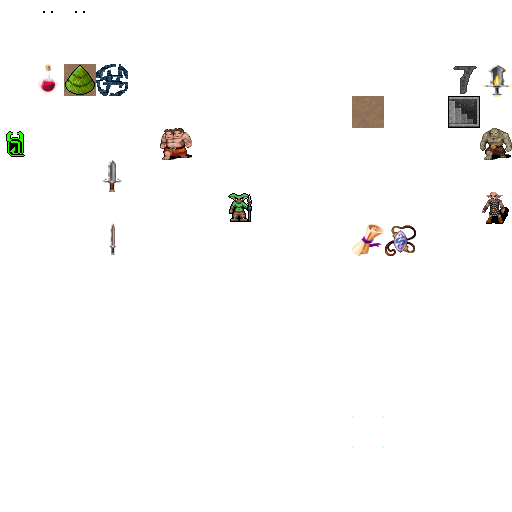
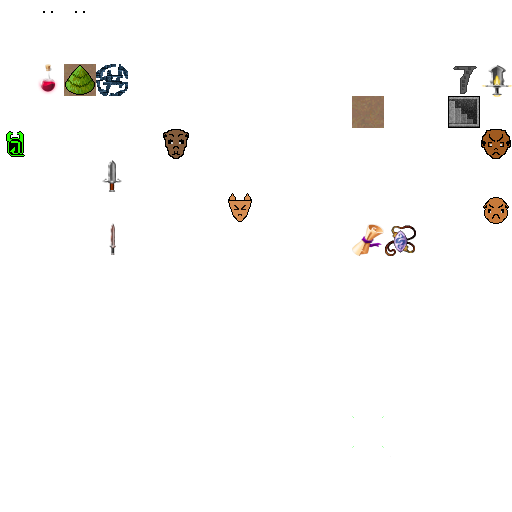
Refactored the code to deal with ECS, added new custom tileset in the resources

diff --git a/src/map.rs b/src/map.rs
@@ -43,39 +43,4 @@ impl Map {
             Some(map_index(point.x, point.y))
         }
     }
-
-    // A function to render the map
-    pub fn render(&self, ctx: &mut BTerm, camera: &Camera) {
-        ctx.set_active_console(0);
-
-        for y in camera.top_y .. camera.bottom_y {
-            for x in camera.left_x .. camera.right_x {
-                if self.in_bounds(Point::new(x, y)) {
-                    let index = map_index(x, y);
-
-                    match self.tiles[index] {
-                        TileType::Floor => {
-                            ctx.set(
-                                x - camera.left_x,
-                                y - camera.top_y,
-                                WHITE,
-                                BLACK,
-                                to_cp437('.')
-                            );
-                        }
-
-                        TileType::Wall => {
-                            ctx.set(
-                                x - camera.left_x,
-                                y - camera.top_y,
-                                WHITE,
-                                BLACK,
-                                to_cp437('#')
-                            );
-                        }
-                    }
-                }
-            }
-        }
-    }
 }

diff --git a/src/main.rs b/src/main.rs
@@ -2,11 +2,14 @@
 
 mod map;
 mod map_builder;
-mod player;
 mod camera;
 
 mod prelude {
     pub use bracket_lib::prelude::*;
+    pub use legion::*;
+    pub use legion::world::SubWorld;
+    pub use legion::systems::CommanderBuffer;
+
     pub const SCREEN_WIDTH: i32 = 80;
     pub const SCREEN_HEIGHT: i32 = 50;
     pub const DISPLAY_WIDTH: i32 = SCREEN_WIDTH / 2;
@@ -21,7 +24,6 @@ use prelude::*;
 
 struct State {
     map: Map,
-    player: Player,
     camera: Camera
 }
 
@@ -44,9 +46,6 @@ impl GameState for State {
         ctx.cls();
         ctx.set_active_console(1);
         ctx.cls();
-        self.player.update(ctx, &self.map, &mut self.camera);
-        self.map.render(ctx, &self.camera);
-        self.player.render(ctx, &self.camera);
     }
 }
 
